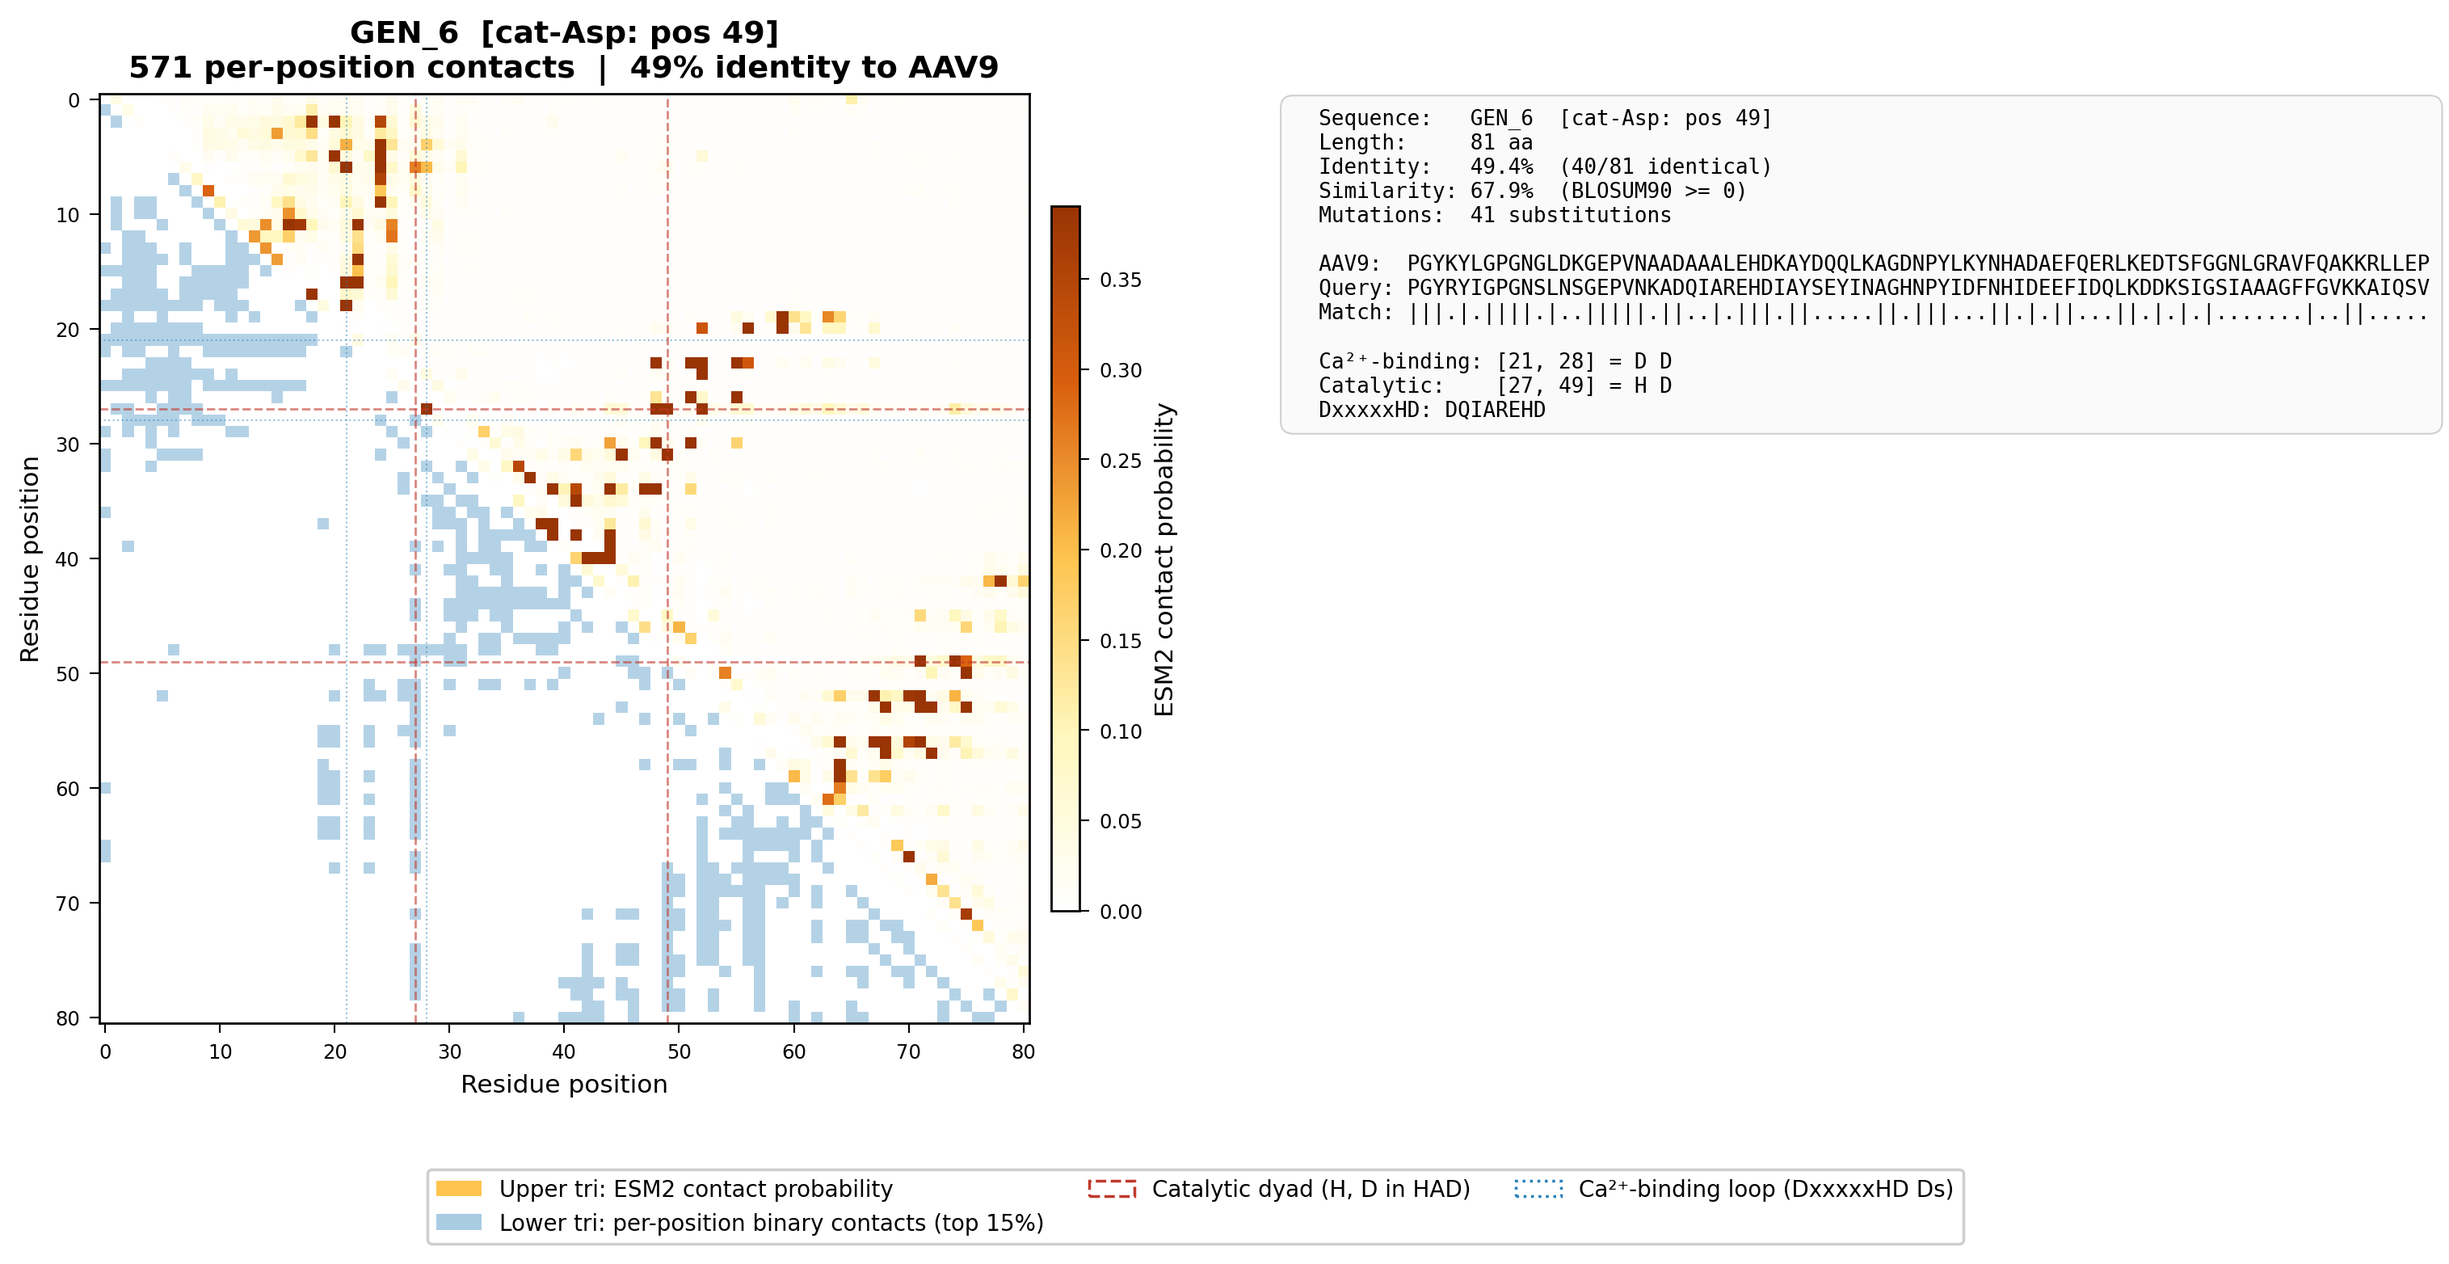
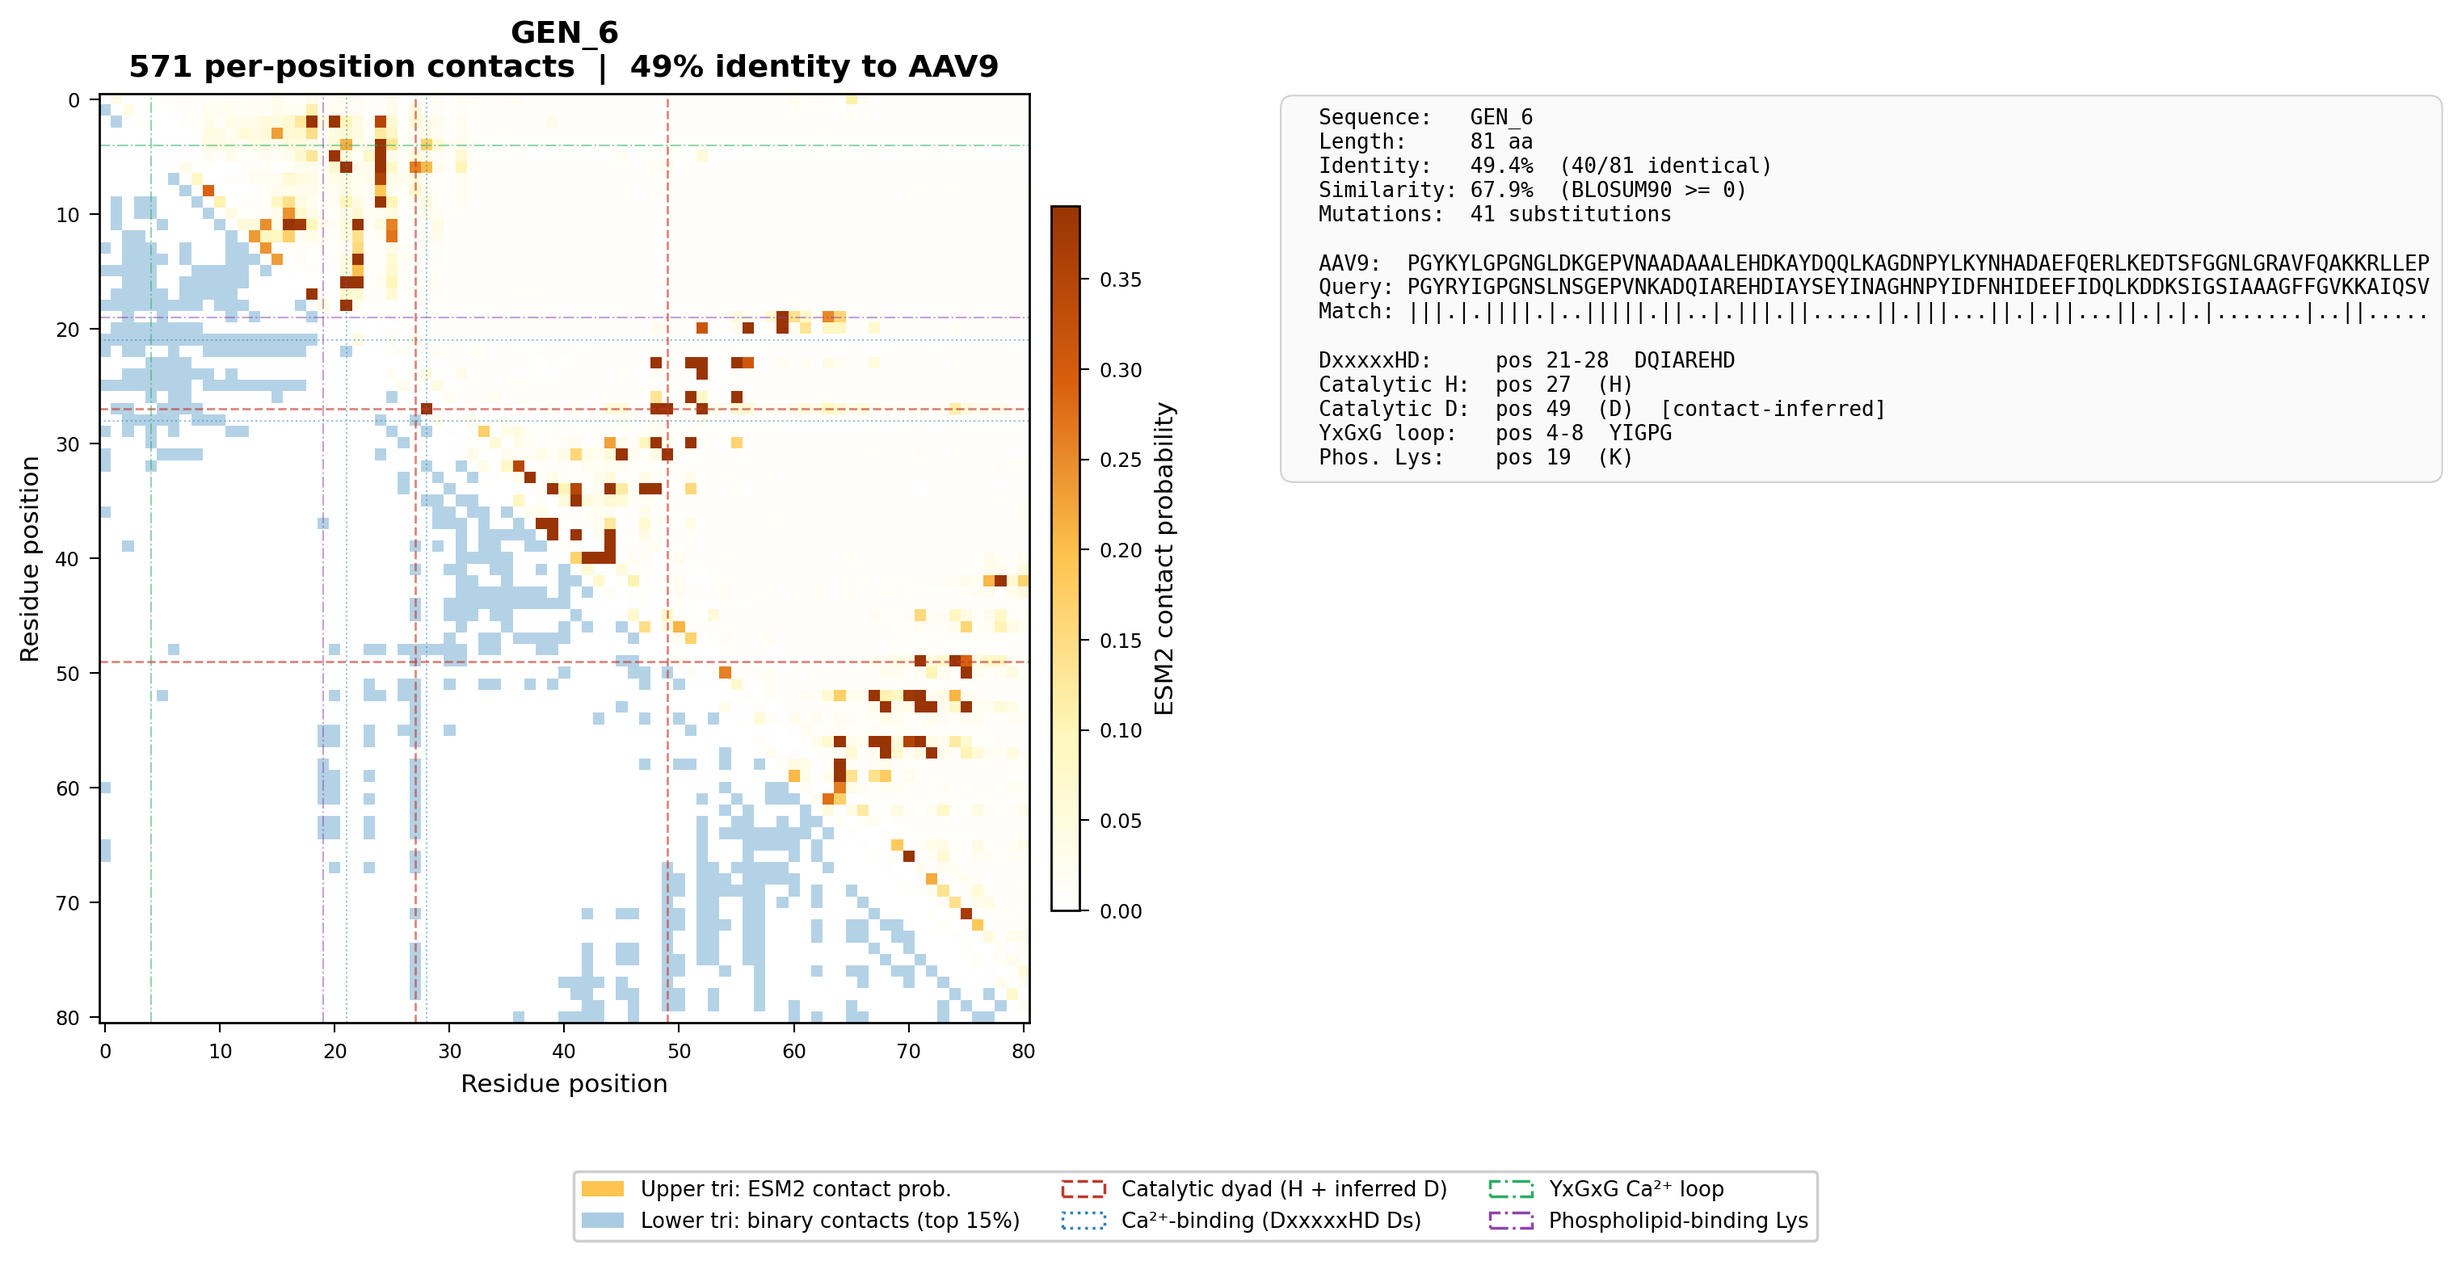
Per-sequence active site annotation with inferred catalytic Asp
Contact map figures now show per-sequence active site positions instead
of fixed AAV9 reference. Each sequence gets its own catalytic Asp
inferred from ESM2 contacts (B19/AMDV/HBoV/GmDNV at pos 44 vs
canonical pos 49). Added YxGxG calcium-binding loop (green) and
phospholipid-binding Lys (purple) annotations. Expanded active site
table shows all functional residues per variant.

Made-with: Cursor

diff --git a/src/make_figures.py b/src/make_figures.py
@@ -19,7 +19,8 @@ from matplotlib.colors import ListedColormap, LinearSegmentedColormap
 from generate_pla2 import (
     parse_fasta, load_esm2_model, predict_contacts_esm2,
     binarize_contacts, find_catalytic_motif, get_key_positions,
-    infer_catalytic_asp, BLOSUM90, AA_TO_IDX,
+    infer_catalytic_asp, get_all_active_site_positions,
+    BLOSUM90, AA_TO_IDX,
 )
 
 OUTDIR = "output/figures"
@@ -77,20 +78,24 @@ def _cbar_labeled(fig, im, ax, ylabel, tick, shrink=0.72):
     return cb
 
 
-def _key_position_lines(ax, ca_binding, catalytic):
-    ca_style = dict(color="#2980b9", linewidth=0.6, alpha=0.5, linestyle=":")
-    cat_style = dict(color="#c0392b", linewidth=0.8, alpha=0.6, linestyle="--")
-    for p in sorted(ca_binding):
-        ax.axvline(p, **ca_style)
-        ax.axhline(p, **ca_style)
-    for p in sorted(catalytic):
-        ax.axvline(p, **cat_style)
-        ax.axhline(p, **cat_style)
+def _active_site_lines(ax, sites):
+    """Draw annotation lines for all active site positions."""
+    styles = {
+        'ca_D1':  dict(color="#2980b9", linewidth=0.6, alpha=0.5, linestyle=":"),
+        'ca_D2':  dict(color="#2980b9", linewidth=0.6, alpha=0.5, linestyle=":"),
+        'cat_H':  dict(color="#c0392b", linewidth=0.8, alpha=0.6, linestyle="--"),
+        'cat_D_inferred': dict(color="#c0392b", linewidth=0.8, alpha=0.6, linestyle="--"),
+        'yxgxg':  dict(color="#27ae60", linewidth=0.6, alpha=0.5, linestyle="-."),
+        'phos_K': dict(color="#8e44ad", linewidth=0.6, alpha=0.5, linestyle="-."),
+    }
+    for key, pos in sites.items():
+        if key in styles:
+            ax.axvline(pos, **styles[key])
+            ax.axhline(pos, **styles[key])
 
 
-def plot_frequency_map(contact_freq, contacts_per_pos, ca_binding, catalytic, filepath):
+def plot_frequency_map(contact_freq, contacts_per_pos, ref_sites, filepath):
     L = contact_freq.shape[0]
-    conserved = ca_binding | catalytic
     fig, axes = plt.subplots(1, 2, figsize=(13, 6),
                              gridspec_kw={"width_ratios": [1, 0.5], "wspace": 0.08})
     ax = axes[0]
@@ -101,7 +106,7 @@ def plot_frequency_map(contact_freq, contacts_per_pos, ca_binding, catalytic, fi
                    interpolation="nearest", vmin=0, vmax=1)
     _cbar_labeled(fig, im, ax,
                   "Contact frequency\n(fraction of input sequences)", 8)
-    _key_position_lines(ax, ca_binding, catalytic)
+    _active_site_lines(ax, ref_sites)
     n_pairs = int(np.sum(contact_freq[mask_upper] > 0))
     ax.set_xlabel("Residue position (PLA2 domain)", fontsize=10)
     ax.set_ylabel("Residue position (PLA2 domain)", fontsize=10)
@@ -115,13 +120,19 @@ def plot_frequency_map(contact_freq, contacts_per_pos, ca_binding, catalytic, fi
     ax.legend(handles=[
         Patch(facecolor="#990000", label="High frequency"),
         Patch(facecolor="#fdd49e", label="Low frequency"),
-        Patch(facecolor="none", edgecolor="#c0392b", linestyle="--",
-              label=f"Catalytic dyad ({','.join(str(p) for p in sorted(catalytic))})"),
-        Patch(facecolor="none", edgecolor="#2980b9", linestyle=":",
-              label=f"Ca²⁺-binding ({','.join(str(p) for p in sorted(ca_binding))})"),
-    ], loc="lower right", fontsize=7.5, framealpha=0.95, edgecolor="#cccccc")
+        Patch(facecolor="none", edgecolor="#c0392b", linestyle="--", label="Catalytic dyad (H + D)"),
+        Patch(facecolor="none", edgecolor="#2980b9", linestyle=":", label="Ca²⁺-binding (DxxxxxHD Ds)"),
+        Patch(facecolor="none", edgecolor="#27ae60", linestyle="-.", label="YxGxG Ca²⁺ loop"),
+        Patch(facecolor="none", edgecolor="#8e44ad", linestyle="-.", label="Phospholipid-binding Lys"),
+    ], loc="lower right", fontsize=7, framealpha=0.95, edgecolor="#cccccc")
     ax2, positions = axes[1], np.arange(L)
-    bar_colors = ["#c0392b" if p in catalytic else "#2980b9" if p in ca_binding else "#7f8c8d" for p in positions]
+    all_sites = set(ref_sites.values())
+    cat_pos = {ref_sites.get('cat_H'), ref_sites.get('cat_D_inferred'), ref_sites.get('cat_D')} - {None}
+    ca_pos = {ref_sites.get('ca_D1'), ref_sites.get('ca_D2')} - {None}
+    bar_colors = ["#c0392b" if p in cat_pos else "#2980b9" if p in ca_pos
+                  else "#27ae60" if p == ref_sites.get('yxgxg')
+                  else "#8e44ad" if p == ref_sites.get('phos_K')
+                  else "#7f8c8d" for p in positions]
     ax2.barh(positions, contacts_per_pos, color=bar_colors, edgecolor="none",
              height=0.75, alpha=0.85)
     ax2.set_ylim(-0.5, L - 0.5)
@@ -141,7 +152,7 @@ def plot_frequency_map(contact_freq, contacts_per_pos, ca_binding, catalytic, fi
 
 # --- Individual contact maps ---
 
-def plot_single_contact(cmap_raw, cmap_bin, contact_freq, name, seq, ref_seq, ca_binding, catalytic, filepath):
+def plot_single_contact(cmap_raw, cmap_bin, contact_freq, name, seq, ref_seq, sites, filepath):
     L = cmap_raw.shape[0]
     fig = plt.figure(figsize=(14, 7.5))
     gs = fig.add_gridspec(2, 2, height_ratios=[1, 0.06], width_ratios=[1.1, 1],
@@ -162,8 +173,7 @@ def plot_single_contact(cmap_raw, cmap_bin, contact_freq, name, seq, ref_seq, ca
     bdisp[mask_lower & (cmap_bin > 0)] = 1
     ax.imshow(bdisp, cmap=ListedColormap(["#2980b9"]), aspect="equal",
               interpolation="nearest", alpha=0.35)
-    _key_position_lines(ax, ca_binding, catalytic)
-    conserved = sorted(ca_binding | catalytic)
+    _active_site_lines(ax, sites)
     n_contacts, ident = int(cmap_bin.sum() / 2), pairwise_identity(seq, ref_seq)
     ax.set_xlabel("Residue position", fontsize=9)
     ax.set_ylabel("Residue position", fontsize=9)
@@ -174,21 +184,43 @@ def plot_single_contact(cmap_raw, cmap_bin, contact_freq, name, seq, ref_seq, ca
     ax.xaxis.set_major_locator(mticker.MultipleLocator(10))
     ax.yaxis.set_major_locator(mticker.MultipleLocator(10))
 
-    # Legend below the plot
     ax_legend.axis("off")
     legend_patches = [
-        Patch(facecolor="#fec44f", label="Upper tri: ESM2 contact probability"),
-        Patch(facecolor="#2980b9", alpha=0.4, label="Lower tri: per-position binary contacts (top 15%)"),
-        Patch(facecolor="none", edgecolor="#c0392b", linestyle="--", label="Catalytic dyad (H, D in HAD)"),
-        Patch(facecolor="none", edgecolor="#2980b9", linestyle=":", label="Ca²⁺-binding loop (DxxxxxHD Ds)"),
+        Patch(facecolor="#fec44f", label="Upper tri: ESM2 contact prob."),
+        Patch(facecolor="#2980b9", alpha=0.4, label="Lower tri: binary contacts (top 15%)"),
+        Patch(facecolor="none", edgecolor="#c0392b", linestyle="--", label="Catalytic dyad (H + inferred D)"),
+        Patch(facecolor="none", edgecolor="#2980b9", linestyle=":", label="Ca²⁺-binding (DxxxxxHD Ds)"),
+        Patch(facecolor="none", edgecolor="#27ae60", linestyle="-.", label="YxGxG Ca²⁺ loop"),
+        Patch(facecolor="none", edgecolor="#8e44ad", linestyle="-.", label="Phospholipid-binding Lys"),
     ]
-    ax_legend.legend(handles=legend_patches, loc="center", ncol=3, fontsize=8,
+    ax_legend.legend(handles=legend_patches, loc="center", ncol=3, fontsize=7.5,
                      framealpha=0.95, edgecolor="#cccccc")
 
     # Right panel: sequence annotation
     ax2.axis("off")
     n_mut, simil = sum(1 for a, b in zip(seq, ref_seq) if a != b), pairwise_similarity(seq, ref_seq)
     match_str = "".join("|" if a == b else "." for a, b in zip(seq, ref_seq))
+
+    site_lines = []
+    if 'ca_D1' in sites and 'ca_D2' in sites:
+        d1, d2 = sites['ca_D1'], sites['ca_D2']
+        site_lines.append(f"  DxxxxxHD:     pos {d1}-{d2}  {seq[d1:d2+1]}")
+    if 'cat_H' in sites:
+        h = sites['cat_H']
+        site_lines.append(f"  Catalytic H:  pos {h}  ({seq[h]})")
+    if 'cat_D_inferred' in sites:
+        d = sites['cat_D_inferred']
+        site_lines.append(f"  Catalytic D:  pos {d}  ({seq[d]})  [contact-inferred]")
+    elif 'cat_D' in sites:
+        d = sites['cat_D']
+        site_lines.append(f"  Catalytic D:  pos {d}  ({seq[d]})  [HAD motif]")
+    if 'yxgxg' in sites:
+        y = sites['yxgxg']
+        site_lines.append(f"  YxGxG loop:   pos {y}-{y+4}  {seq[y:y+5]}")
+    if 'phos_K' in sites:
+        k = sites['phos_K']
+        site_lines.append(f"  Phos. Lys:    pos {k}  ({seq[k]})")
+
     text = (
         f"  Sequence:   {name}\n"
         f"  Length:     {L} aa\n"
@@ -200,9 +232,7 @@ def plot_single_contact(cmap_raw, cmap_bin, contact_freq, name, seq, ref_seq, ca
         f"  Query: {seq}\n"
         f"  Match: {match_str}\n"
         f"\n"
-        f"  Ca²⁺-binding: {sorted(ca_binding)} = {' '.join(ref_seq[p] for p in sorted(ca_binding))}\n"
-        f"  Catalytic:    {sorted(catalytic)} = {' '.join(ref_seq[p] for p in sorted(catalytic))}\n"
-        f"  DxxxxxHD: {seq[min(ca_binding):max(ca_binding)+1]}")
+        + "\n".join(site_lines))
     ax2.text(0.02, 0.96, text, transform=ax2.transAxes, fontsize=7.5, fontfamily="monospace",
              verticalalignment="top",
              bbox=dict(boxstyle="round,pad=0.6", facecolor="#fafafa", edgecolor="#d0d0d0", linewidth=0.6))
@@ -245,7 +275,7 @@ def main():
     if motif_off is None:
         print("ERROR: No DxxxxxHD motif")
         return
-    ca_binding, catalytic = get_key_positions(motif_off, ref_seq)
+    ref_sites = get_all_active_site_positions(ref_seq)
     gen_pairs = [(n.split("|")[0], s) for n, s in parse_fasta("output/generated.fasta")
                    if "reference" not in n]
     gen_seqs = [s for _, s in gen_pairs]
@@ -255,7 +285,7 @@ def main():
           f"[{contacts_per_pos.min():.0f}–{contacts_per_pos.max():.0f}], "
           f"median={np.median(contacts_per_pos):.0f}")
     print("\nFigure 1: Contact frequency model")
-    plot_frequency_map(contact_freq, contacts_per_pos, ca_binding, catalytic,
+    plot_frequency_map(contact_freq, contacts_per_pos, ref_sites,
                        os.path.join(OUTDIR, "contact_frequency_model.png"))
     # Named type members grouped by genus for heatmap readability
     type_members_ordered = [
@@ -308,33 +338,40 @@ def main():
         bin_cmaps.append(binarize_contacts(cmap))
     del model
 
-    # --- Catalytic Asp inference table ---
-    h_pos = motif_off + 6  # His position in the DxxxxxHD motif
-    print(f"\n{'='*72}")
-    print(f"  Inferred Catalytic Asp (strongest D→His{h_pos} contact, ±10 of pos 49)")
-    print(f"{'='*72}")
-    print(f"  {'Variant':<35s} {'Asp pos':>7s} {'Residue':>7s} {'Score':>8s}")
-    print(f"  {'-'*35} {'-'*7} {'-'*7} {'-'*8}")
+    # --- Per-sequence active site positions ---
+    all_sites = []
     for i, (name, seq) in enumerate(zip(viz_names, viz_seqs)):
-        asp_pos, asp_score = infer_catalytic_asp(seq, raw_cmaps[i], h_pos=h_pos)
+        sites = get_all_active_site_positions(seq, contact_map=raw_cmaps[i])
+        all_sites.append(sites)
+
+    # --- Catalytic Asp inference table ---
+    h_pos = motif_off + 6
+    print(f"\n{'='*80}")
+    print(f"  Inferred Active Site Residues (per-sequence)")
+    print(f"{'='*80}")
+    print(f"  {'Variant':<16s} {'DxxxxxHD':>8s} {'cat-H':>5s} {'cat-D':>5s} {'YxGxG':>7s} {'phos-K':>6s} {'D score':>8s}")
+    print(f"  {'-'*16} {'-'*8} {'-'*5} {'-'*5} {'-'*7} {'-'*6} {'-'*8}")
+    for i, (name, seq) in enumerate(zip(viz_names, viz_seqs)):
+        s = all_sites[i]
         tag = "*" if viz_is_gen[i] else " "
-        if asp_pos is not None:
-            print(f" {tag}{name:<35s} {asp_pos:>7d} {seq[asp_pos]:>7s} {asp_score:>8.3f}")
-        else:
-            print(f" {tag}{name:<35s} {'N/A':>7s} {'-':>7s} {'-':>8s}")
-    print(f"{'='*72}")
+        dxh = f"{s.get('ca_D1','?')}-{s.get('ca_D2','?')}" if 'ca_D1' in s else "N/A"
+        cat_h = str(s.get('cat_H', 'N/A'))
+        cat_d = str(s.get('cat_D_inferred', s.get('cat_D', 'N/A')))
+        yxg = f"{s['yxgxg']}-{s['yxgxg']+4}" if 'yxgxg' in s else "N/A"
+        pk = str(s.get('phos_K', 'N/A'))
+        asp_pos, asp_score = infer_catalytic_asp(seq, raw_cmaps[i], h_pos=h_pos)
+        sc = f"{asp_score:.3f}" if asp_pos is not None else "-"
+        print(f" {tag}{name:<16s} {dxh:>8s} {cat_h:>5s} {cat_d:>5s} {yxg:>7s} {pk:>6s} {sc:>8s}")
+    print(f"{'='*80}")
     print("  (* = generated sequence)\n")
 
     print(f"Figure 2: Individual contact maps → {OUTDIR}/")
     for i, (name, seq) in enumerate(zip(viz_names, viz_seqs)):
         safe = re.sub(r'[^\w\-.]', '_', name)
         tag = "generated" if viz_is_gen[i] else "natural"
-        asp_pos, _ = infer_catalytic_asp(seq, raw_cmaps[i], h_pos=h_pos)
-        asp_label = f"  [cat-Asp: pos {asp_pos}]" if asp_pos is not None else "  [cat-Asp: N/A]"
         path = os.path.join(OUTDIR, f"{tag}_{safe}.png")
         plot_single_contact(raw_cmaps[i], bin_cmaps[i], contact_freq,
-                            name + asp_label, seq, ref_seq,
-                            ca_binding, catalytic, path)
+                            name, seq, ref_seq, all_sites[i], path)
         print(f"  {path}")
     print("\nFigure 3: Pairwise comparison heatmaps")
     n_total = len(viz_names)

diff --git a/src/generate_pla2.py b/src/generate_pla2.py
@@ -128,6 +128,61 @@ def infer_catalytic_asp(seq, contact_map, h_pos=27, search_range=10, ref_asp=49)
     return best_pos, best_score
 
 
+def find_yxgxg(seq):
+    """Find YxGxG calcium-binding loop motif. Returns index of Y, or None."""
+    for i in range(len(seq) - 4):
+        if seq[i] == 'Y' and seq[i + 2] == 'G' and seq[i + 4] == 'G':
+            return i
+    return None
+
+
+def find_conserved_lys(seq, motif_offset):
+    """Find conserved Lys between YxGxG and DxxxxxHD (phospholipid binding).
+
+    Searches for the first K in positions 10-20 (typical range between
+    the calcium-binding loop and the catalytic motif).
+    """
+    lo = max(0, motif_offset - 15)
+    hi = motif_offset
+    for i in range(lo, hi):
+        if seq[i] == 'K':
+            return i
+    return None
+
+
+def get_all_active_site_positions(seq, contact_map=None):
+    """Return a dict of all known PLA2 active site positions for a sequence.
+
+    Keys: 'ca_D1', 'ca_D2' (DxxxxxHD Ds), 'cat_H' (catalytic His),
+          'cat_D' (catalytic Asp from HAD or contact-inferred),
+          'yxgxg' (Y position in YxGxG), 'phos_K' (phospholipid-binding Lys)
+    """
+    positions = {}
+    motif_off = find_catalytic_motif(seq)
+    if motif_off is None:
+        return positions
+    positions['ca_D1'] = motif_off
+    positions['ca_D2'] = motif_off + D2_OFFSET
+    positions['cat_H'] = motif_off + H_OFFSET
+
+    had_pos = find_catalytic_dyad(seq)
+    if had_pos is not None:
+        positions['cat_D'] = had_pos + 2
+    if contact_map is not None:
+        asp_pos, _ = infer_catalytic_asp(
+            seq, contact_map, h_pos=motif_off + H_OFFSET)
+        if asp_pos is not None:
+            positions['cat_D_inferred'] = asp_pos
+
+    yg = find_yxgxg(seq)
+    if yg is not None:
+        positions['yxgxg'] = yg
+    pk = find_conserved_lys(seq, motif_off)
+    if pk is not None:
+        positions['phos_K'] = pk
+    return positions
+
+
 def extract_pla2_by_motif(seq, domain_len=81, upstream_of_motif=21):
     """Extract PLA2 domain aligned by the DxxxxxHD catalytic motif.
 
